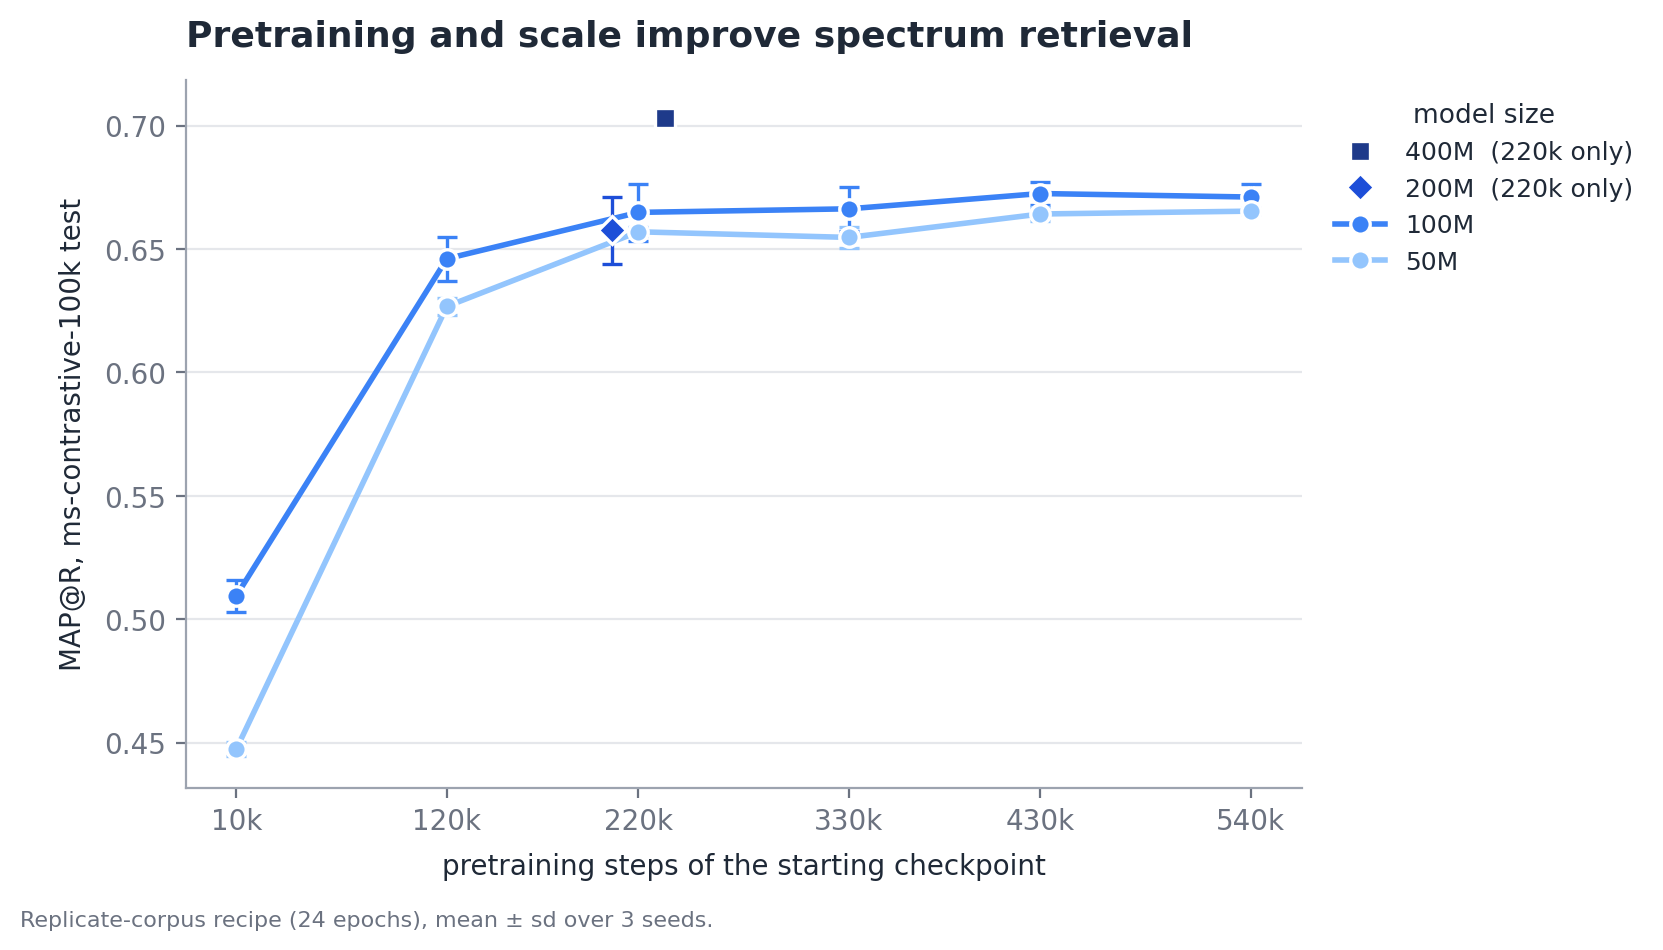
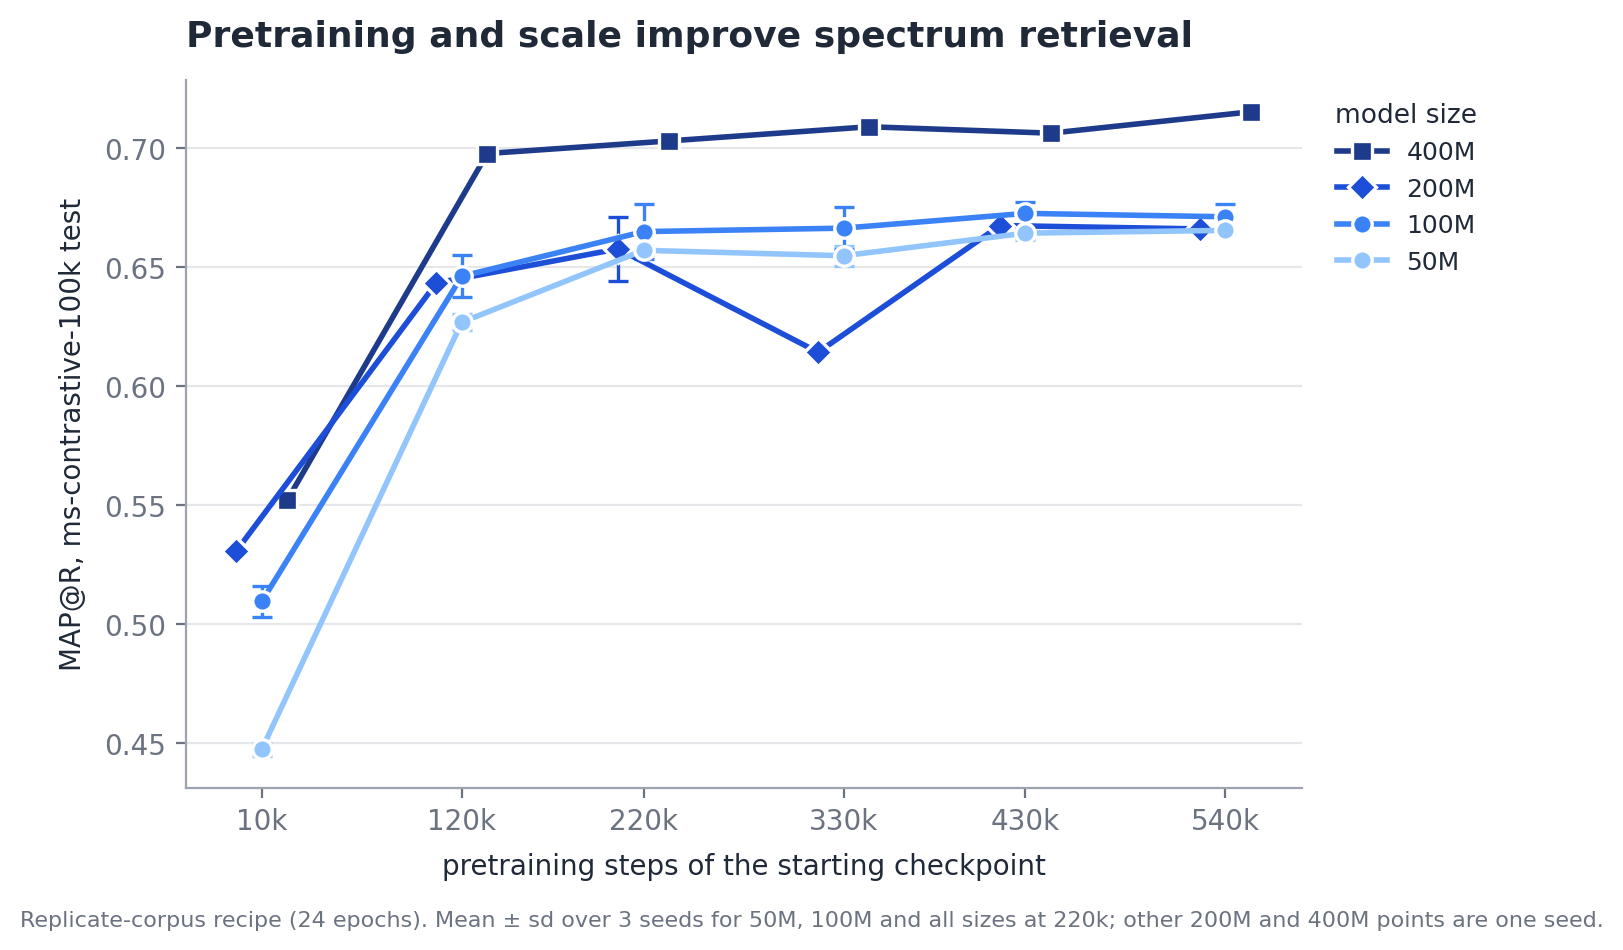
C_pretraining_scaling: 200M/400M checkpoints; footnote
Claude-Session: https://claude.ai/code/session_01ATgkXx1oRRqvzB3G8wYeta

diff --git a/sweeps/package_contrastive.py b/sweeps/package_contrastive.py
@@ -174,7 +174,7 @@ def fig_pretraining(rows):
                      fontweight="bold", pad=12)
         ax.legend(handles=handles, title="model size", frameon=False, fontsize=9, title_fontsize=9.5,
                   loc="upper left", bbox_to_anchor=(1.01, 1.0))
-        fig.text(0.01, -0.04, "Replicate-corpus recipe (24 epochs), mean ± sd over 3 seeds.",
+        fig.text(0.01, -0.04, "Replicate-corpus recipe (24 epochs). Mean ± sd over 3 seeds for 50M, 100M and all sizes at 220k; other 200M and 400M points are one seed.",
                  fontsize=8, color=MUTED)
         fig.savefig(FIG / "C_pretraining_scaling.png"); plt.close(fig)
 
@@ -188,13 +188,13 @@ def zeroshot_rows():
                             abtt_best=float(r["abtt_best"]), abtt_D=r["abtt_best_D"], abtt_layer=r["abtt_best_layer"],
                             abtt_fit="ms-contrastive-100k train"))
     # mouse 20k: only the two best in-distribution/yeast encoders were run (400M@220k, 400M@330k)
-    for f in sorted(RES.glob("mouse20k_zeroshot_*/zs_*.json")):
+    for f in sorted(list(RES.glob("mouse20k_zeroshot_*/zs_*.json")) + list(RES.glob("human20k_zeroshot/zs_*.json"))):
         d = json.loads(f.read_text())
         sc, ck = re.match(r"zs_0*(\d+m)_ck0*(\d+k)", f.stem).groups()
         tr = d["abtt"]["train"]
         best = max(((D, lay, v["experimental/MAP@R"]) for D, L in tr.items() if D != "center"
                     for lay, v in L.items()), key=lambda t: t[2])
-        out.append(dict(benchmark="mouse-20k", encoder=f"{sc}@{ck}",
+        out.append(dict(benchmark="human-20k" if "human20k" in str(f) else "mouse-20k", encoder=f"{sc}@{ck}",
                         raw_final=d["layers"]["final"]["experimental/MAP@R"],
                         raw_best_layer=max(v["experimental/MAP@R"] for v in d["layers"].values()),
                         abtt_best=best[2], abtt_D=best[0], abtt_layer=best[1], abtt_fit="ms-contrastive-100k train"))

diff --git a/paper/experiments/spectrum_embedding/plot_spectrum_embedding.py b/paper/experiments/spectrum_embedding/plot_spectrum_embedding.py
@@ -129,7 +129,7 @@ def pretraining_scaling():
         ax.set_title("Pretraining and scale improve spectrum retrieval", loc="left", fontsize=13, fontweight="bold", pad=12)
         ax.legend(handles=handles, title="model size", frameon=False, fontsize=9, title_fontsize=9.5,
                   loc="upper left", bbox_to_anchor=(1.01, 1.0))
-        fig.text(0.01, -0.04, "Replicate-corpus recipe (24 epochs), mean ± sd over 3 seeds.", fontsize=8, color=MUTED)
+        fig.text(0.01, -0.04, "Replicate-corpus recipe (24 epochs). Mean ± sd over 3 seeds for 50M, 100M and all sizes at 220k; other 200M and 400M points are one seed.", fontsize=8, color=MUTED)
         fig.savefig(HERE / "C_pretraining_scaling.png"); plt.close(fig)
 
 

diff --git a/paper/experiments/spectrum_embedding/README.md b/paper/experiments/spectrum_embedding/README.md
@@ -80,11 +80,24 @@ figure (they were not scored on every benchmark); see `C_transfer_ours` and `0_s
 ## C_pretraining_scaling
 
 - Recipe: replicate corpus only, SupCon loss, lr 1e-4, KL 10, temperature 0.002, 64 peptide groups x 4
-  replicates per batch, 24 epochs; 3 seeds per point; evaluated on the ms-contrastive-100k test.
-- 50M and 100M across pretraining checkpoints 10k-540k; 200M and 400M at 220k only.
-  Jobs 8860092 / 8860863 (sizes at 220k) and 8860093 (checkpoints).
-- Reading: MAP@R rises steeply from 10k to 120k pretraining steps (50M: 0.447 -> 0.627) and flattens
-  after about 220k; 100M is at or above 50M at every checkpoint; 400M (0.703) is above the others at 220k.
+  replicates per batch, 24 epochs; evaluated on the ms-contrastive-100k test.
+- All four sizes across pretraining checkpoints 10k-540k. 3 seeds per point for 50M and 100M and for
+  every size at 220k; the other 200M and 400M points are one seed (seed 0). Jobs 8860092 / 8860863
+  (sizes at 220k), 8860093 (50M/100M checkpoints), 8870949 (200M/400M checkpoints).
+
+| MAP@R | 10k | 120k | 220k | 330k | 430k | 540k |
+|---|---|---|---|---|---|---|
+| 400M | 0.552 | 0.698 | 0.703 | 0.709 | 0.706 | **0.715** |
+| 200M | 0.531 | 0.643 | 0.658 | 0.614 | 0.667 | 0.666 |
+| 100M | 0.510 | 0.646 | 0.665 | 0.666 | 0.672 | 0.671 |
+| 50M | 0.447 | 0.627 | 0.657 | 0.655 | 0.664 | 0.665 |
+
+- Reading: MAP@R rises steeply from 10k to 120k pretraining steps and flattens after about 220k. From
+  120k on, 400M is about 0.04 above every smaller size and still improves slowly to 540k (0.715); 50M,
+  100M and 200M plateau together at 0.66-0.67.
+- 200M at 330k (0.614, one seed) is an outlier; the same checkpoint is also among 200M's weakest as a
+  frozen encoder (see `0_shot/`), so it looks like a weaker starting checkpoint rather than a failed
+  fine-tuning run.
 
 ## C_pretraining_ablation
 
